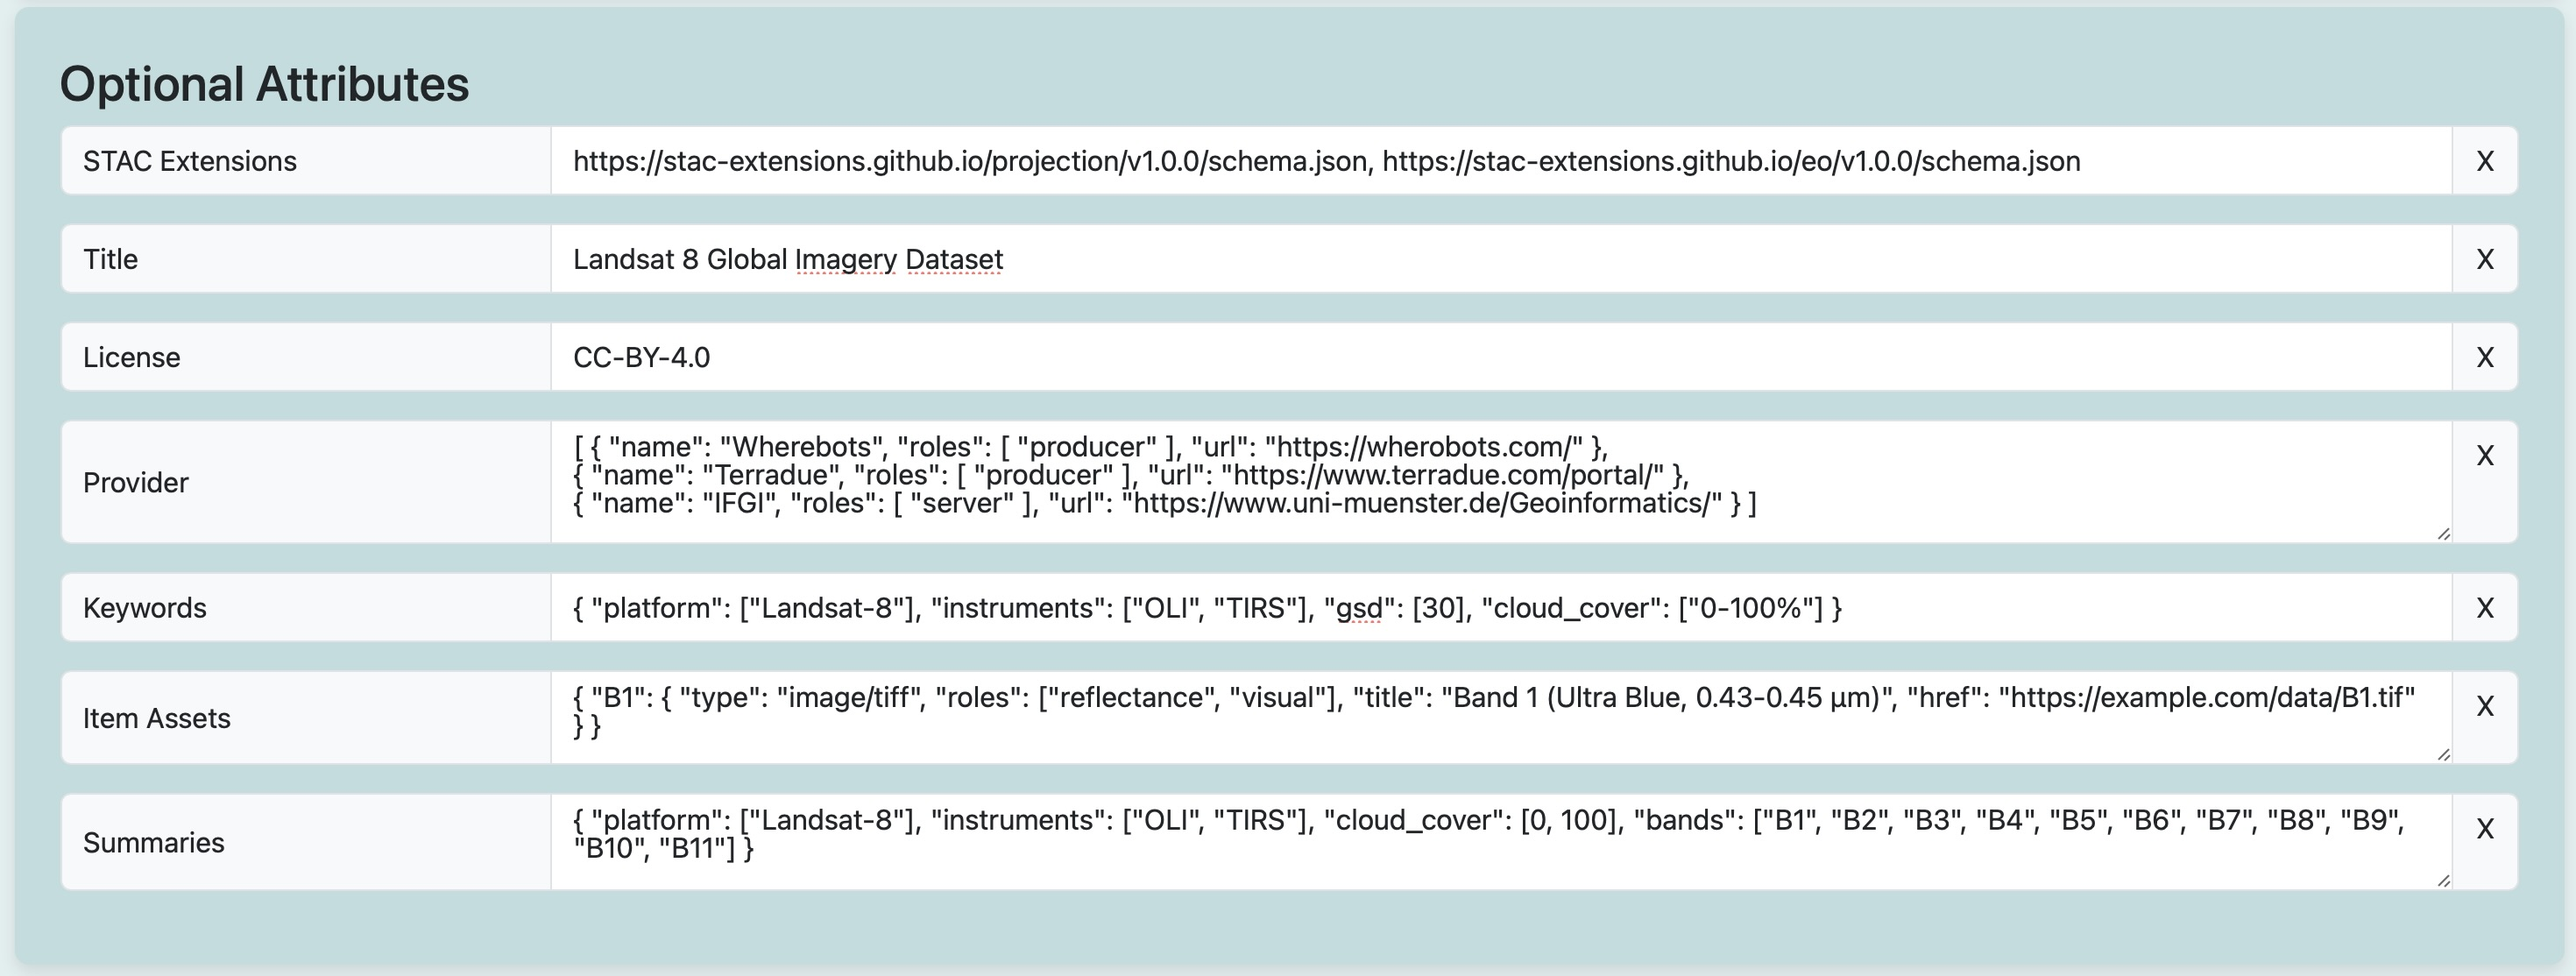
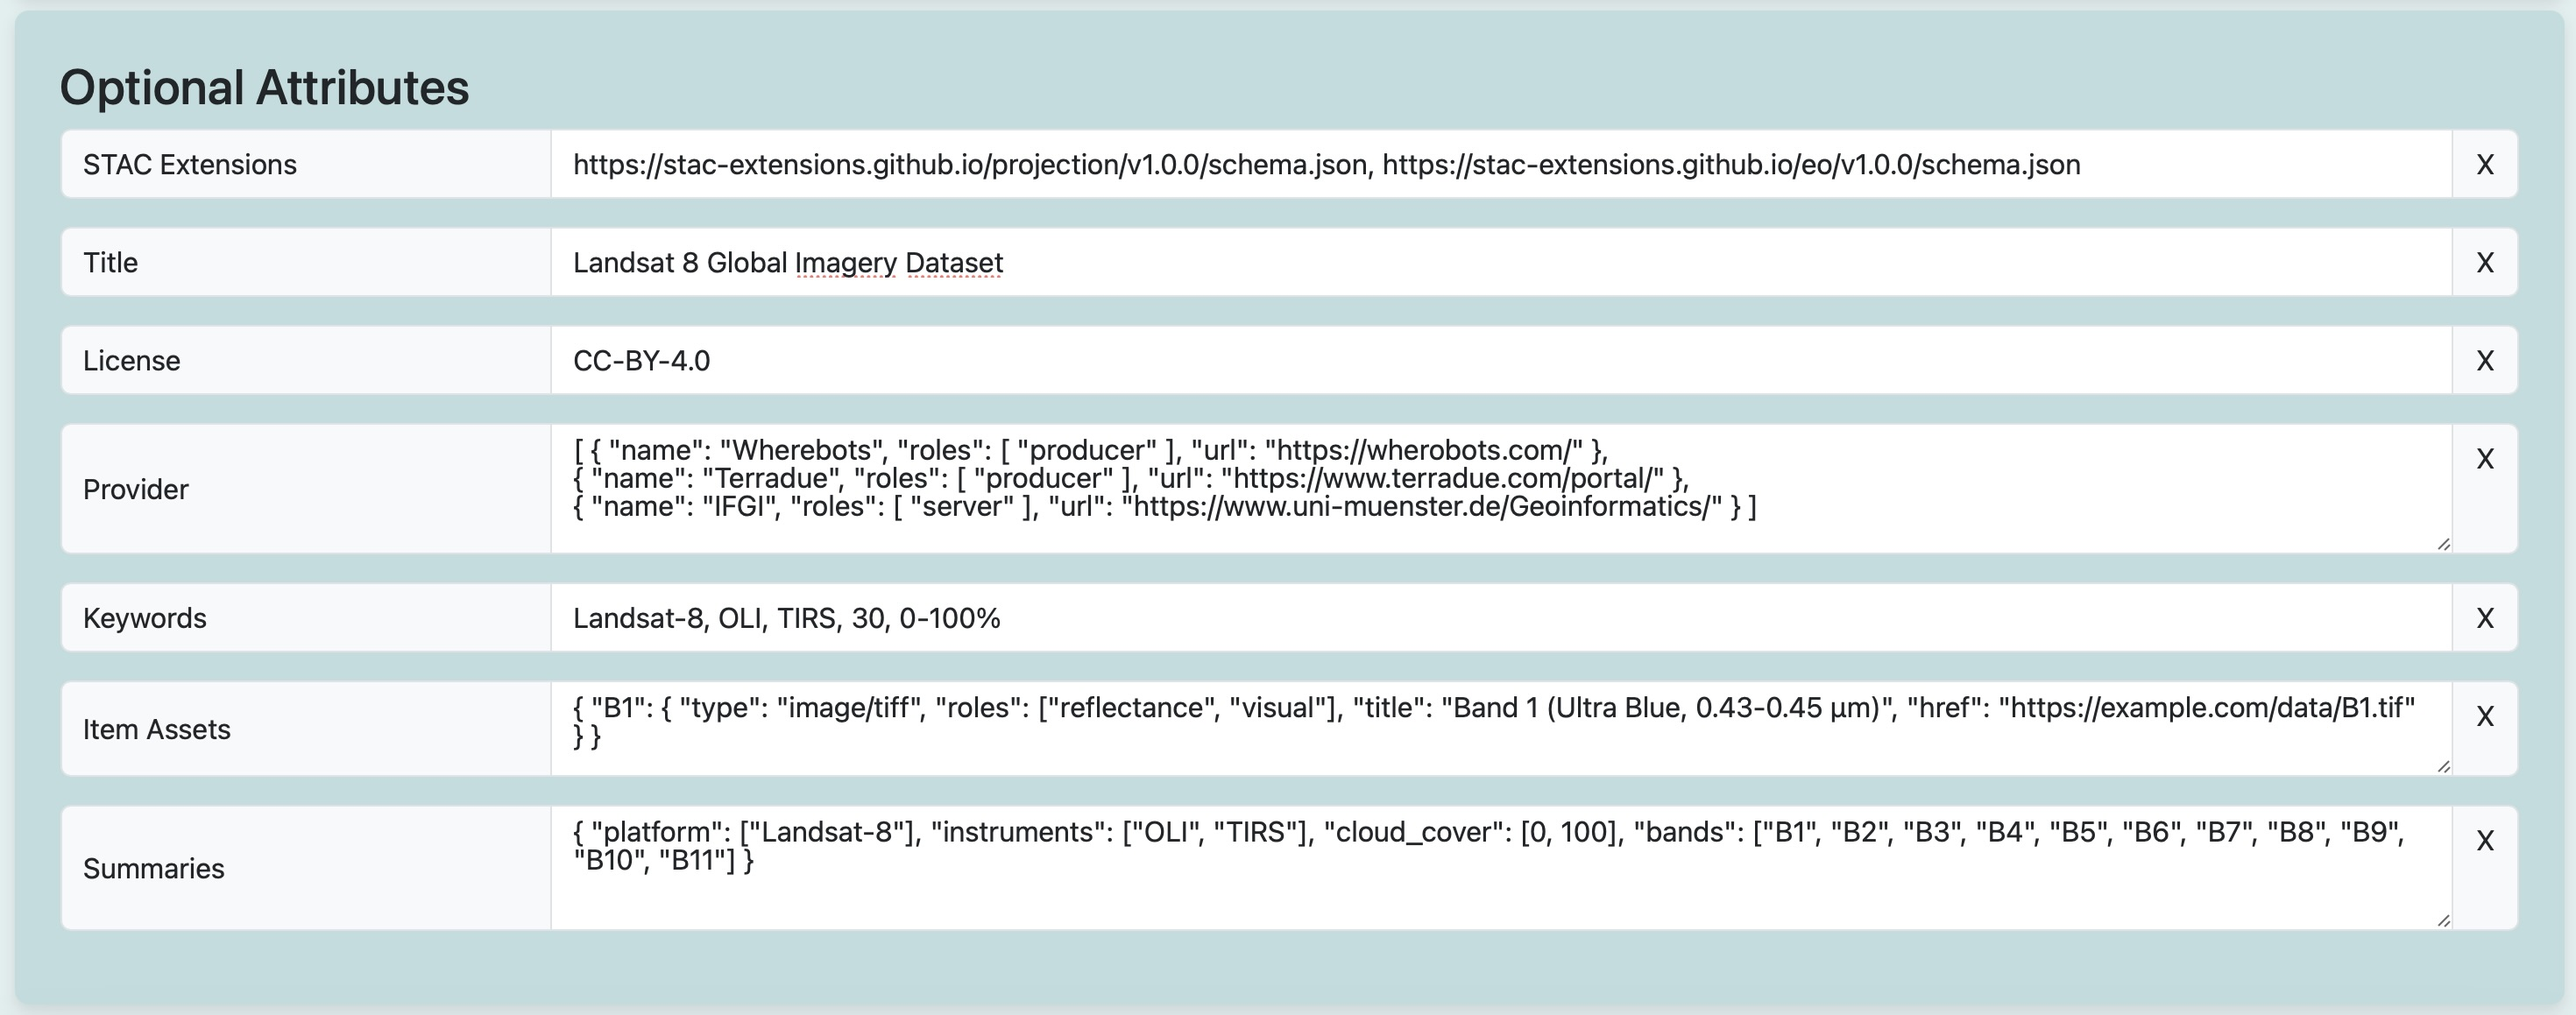
tutorial for adding items

Changed region(s): [[0.0, 0.1526, 0.9905, 0.9156]]

diff --git a/frontend/react/src/help/components/Scrollspy.jsx b/frontend/react/src/help/components/Scrollspy.jsx
@@ -185,7 +185,7 @@ const ScrollSpyComponent = () => {
             <br></br>
             <li>
               <strong>Keywords: </strong>Description: Concise labels to describe the dataset. Input: A JSONB format. <br></br>
-              Example: &#123; "platform": ["Landsat-8"], "instruments": ["OLI", "TIRS"], "gsd": [30], "cloud_cover": ["0-100%"] &#125;
+              Example: Landsat-8, OLI, TIRS, 30, 0-100%
             </li>
 
             <br></br>
@@ -221,6 +221,260 @@ const ScrollSpyComponent = () => {
           <ul>
             After signing in with your personal account, you can click on the tab "Add/Item" to add a new item.
           </ul>
+          <ul>
+            <h5>Key attributes</h5>
+            <li>
+              <strong>Type: </strong>Description: Defines the type of the item. Input: Default 'Feature' is given.
+            </li>
+            <br></br>
+            <li>
+              <strong>ID: </strong>Description: A unique identifier for the item. Input: An alphanumeric string without spaces. <br></br>
+              Example: item_solar_satlas_sentinel2
+            </li>
+            <br></br>
+            <li>
+              <strong>Geometry: </strong>Description: Defines the spatial coverage of the item. Input: A GeoJSON object representing the item's geometry. <br></br>
+              Example: &#123;
+              "type": "Polygon", <br></br>
+              "coordinates": [[[ -7.88, 37.13 ], [ -7.88, 58.21 ], [ 27.91, 58.21 ], [ 27.91, 37.13 ], [ -7.88, 37.13 ]]]
+              &#125;
+            </li>
+            <br></br>
+            <li>
+              <strong>Assets: </strong>Description: Lists the data files related to the item.
+              Input: A JSONB object containing asset details. <br></br>
+              Example: &#123;
+              "model": &#123;
+              "href": "s3://wherobots-modelhub-prod/professional/semantic-segmentation/solar-satlas-sentinel2/inductor/gpu/aot_inductor_gpu_tensor_cores.zip", <br></br>
+              "type": "application/zip; application=pytorch", <br></br>
+              "title": "AOTInductor model exported from private, edited, hard fork of Satlas GitHub repo.", <br></br>
+              "mlm_artifact_type": "torch.jit.script" <br></br>
+              &#125;
+              &#125;
+            </li>
+            <br></br>
+            <li>
+              <strong>Collection: </strong>Description: Specifies the collection to which this item belongs. Input: A valid collection ID, taken from dropdown menu. If no collections exist, please firstly create one.
+              <br></br>
+              <a href="#item-2-1">Learn here!</a>
+            </li>
+            <br></br>
+            <li>
+              <strong>STAC Version: </strong>Description: Specifies the STAC version used. Input: A valid STAC version number. <br></br>
+              Example: 1.0.0
+            </li>
+            <br></br>
+            <h5>Properties</h5>
+            <li>
+              <strong>MLM Name: </strong>Description: Name of the Machine Learning Model. Input: An alphanumeric string. <br></br>
+              Example: Satlas Solar Farm Segmentation
+            </li>
+            <br></br>
+            <li>
+              <strong>MLM Task: </strong>Description: The specific task that the MLM is designed for, such as classification, segmentation,... Input: Comma-separated list of tasks. <br></br>
+              Example: semantic-segmentation, segmentation
+            </li>
+            <br></br>
+            <li>
+              <strong>MLM Architecture: </strong>Description: The structure of the MLM. Input: An alphanumeric string. <br></br>
+              Example: PyTorch
+            </li>
+            <br></br>
+            <h5>Optional Properties</h5>
+            <li>
+              <strong>STAC Extensions: </strong>Description: Additional metadata extensions in the Spatial Temporal Asset Catalog (STAC) format. Input: A comma-separated list of URLs pointing to extension schemas. <br></br>Example: https://stac-extensions.github.io/projection/v1.0.0/schema.json, https://stac-extensions.github.io/eo/v1.0.0/schema.json
+            </li>
+            <br></br>
+            <li>
+              <strong>BBox: </strong>Description: The geographic boundary of an item. Input:  A GeoJSON object representing the item's geometry.<br></br>
+              Example: -7.882190080512502, 37.13739173208318, 27.911651652899923, 58.21798141355221
+            </li>
+            <br></br>
+            <li>
+              <strong>Description</strong>Description: Detailed textual explanation of the dataset or model. Input: An alphanumeric string. <br></br>
+              Example: Sourced from torchgeo python library, identifier is ResNet18_Weights.SENTINEL2_ALL_MOCO. The batch size suggestion is 3300, which almost maxes out an NVIDIA 3090's 24 GB CUDA memory.
+            </li>
+            <br></br>
+            <li>
+              <strong>Datetime: </strong>Description: A timestamp indicating a specific date and time associated with the data or model. Input: A timestamp. <br></br>
+              Example:
+            </li>
+            <br></br>
+            <li>
+              <strong>Start Datetime: </strong>Description: The beginning timestamp for the dataset or model's validity period. Input: A timestamp. <br></br>
+              Example: 2021-01-01T00:00:00Z
+            </li>
+            <br></br>
+            <li>
+              <strong>End Datetime: </strong>Description: The end timestamp for the dataset or model's validity period. Input: A timestamp. <br></br>
+              Example: 2023-12-01T00:00:00Z
+            </li>
+            <br></br>
+            <li>
+              <strong>MLM Framework: </strong>Description: The software framework used to develop and train the model. Input: An alphanumeric string. <br></br>
+              Example: pytorch
+            </li>
+            <br></br>
+            <li>
+              <strong>MLM Framework Version: </strong>Description: The specific version of the framework used for model training and inference. Input: An alphanumeric string. <br></br>
+              Example: 2.3.0+cu121
+            </li>
+            <br></br>
+            <li>
+              <strong>MLM Memory Size: </strong>Description: The amount of memory (RAM) required to load and run the model. Input: An integer. <br></br>
+              Example: 94452432
+            </li>
+            <br></br>
+            <li>
+              <strong>MLM Total Parameters: </strong>Description: The total number of trainable parameters in the model, representing its complexity. Input: An integer <br></br>
+              Example: 11700000
+            </li>
+            <br></br>
+            <li>
+              <strong>MLM Pretrained: </strong>Description:  Indicates whether the model is pretrained on another dataset before fine-tuning. Input: Tick the box or not.
+            </li>
+            <br></br>
+            <li>
+              <strong>MLM Pretrained Source: </strong>Description: The dataset or repository from which the pretrained model was obtained. Input: An alphanumeric string. <br></br>
+              Example:EuroSat Sentinel-2
+            </li>
+            <br></br>
+            <li>
+              <strong>MLM Batch Size Suggestion: </strong>Description: The recommended number of samples to process in one batch during training or inference. Input: An integer. <br></br>
+              Example: 3300
+            </li>
+            <br></br>
+            <li>
+              <strong>MLM Accelerator: </strong>Description: The type of hardware accelerator used. Input: An alphanumeric string. <br></br>
+              Example: cuda
+            </li>
+            <br></br>
+            <li>
+              <strong>MLM Accelerator COnstrained: </strong>Description:  Indicates whether the model has specific constraints related to the accelerator type or availability. Input: Tick the box or not.
+            </li>
+            <br></br>
+            <li>.
+              <strong>MLM Accelerator Summary</strong>Description:  A brief description of the hardware acceleration setup. Input: An alphanumeric string. <br></br>
+              Example: Unknown
+            </li>
+            <br></br>
+            <li>
+              <strong>MLM Accelerator Count: </strong>Description: The number of accelerators (e.g., GPUs) used for training or inference. Input: An integer. <br></br>
+              Example: 1
+            </li>
+            <br></br>
+            <li>
+              <strong>MLM Input: </strong>Description: The format and structure of input data required by the model. Input: A JSONB file. <br></br>
+              Example: [
+              &#123;
+              "name": "13 Band Sentinel-2 Batch",
+              "bands": [
+              "B01",
+              "B02",
+              "B03",
+              "B04",
+              "B05",
+              "B06",
+              "B07",
+              "B08",
+              "B8A",
+              "B09",
+              "B10",
+              "B11",
+              "B12"
+              ],
+              "input": &#123;
+              "shape": [
+              -1,
+              13,
+              64,
+              64
+              ],
+              "dim_order": [
+              "batch",
+              "channel",
+              "height",
+              "width"
+              ],
+              "data_type": "float32"
+              &#125;,
+              "norm_by_channel": true,
+              "norm_type": "z-score",
+              "statistics": [
+              &#123;
+              "mean": 1354.40546513,
+              "stddev": 245.71762908
+              &#125;,
+              &#123;
+              "mean": 1118.24399958,
+              "stddev": 333.00778264
+              &#125;
+              ],
+              "pre_processing_function": &#123;
+              "format": "python",
+              "expression": "torchgeo.datamodules.eurosat.EuroSATDataModule.collate_fn"
+              &#125;
+              &#125;
+              ]
+            </li>
+            <br></br>
+            <li>
+              <strong>MLM Output: </strong>Description: he format and structure of the output produced by the model. Input: A JSONB file. <br></br>
+              Example:[
+              &#123;
+              "name": "scene-classification",
+              "tasks": [
+              "scene-classification"
+              ],
+              "result": &#123;
+              "shape": [
+              -1,
+              10
+              ],
+              "dim_order": [
+              "batch",
+              "class"
+              ],
+              "data_type": "float32"
+              &#125;,
+              "classification:classes": [
+              &#123;
+              "value": 0,
+              "name": "Annual Crop",
+              "description": "Annual Crop"
+              &#125;,
+              &#123;
+              "value": 1,
+              "name": "Forest",
+              "description": "Forest"
+              &#125;
+              ],
+              "post_processing_function": null
+              &#125;
+              ]
+
+            </li>
+            <br></br>
+            <li>
+              <strong>MLM Hyperparameters: </strong>Description: The set of adjustable parameters that control the learning process of the model. Input: A JSONB file. <br></br>
+              Example: &#123;
+              "learning_rate": 0.001,
+              "batch_size": 32,
+              "epochs": 50,
+              "optimizer": "Adam",
+              "dropout": 0.3,
+              "loss_function": "cross_entropy"
+              &#125;
+            </li>
+            <br></br>
+            <h5>Here is a screenshot to help you understand the process:</h5>
+            <div>
+              <img src="../../ItemsAddData.jpeg" alt="Screenshot of item addition" width="820" />
+            </div>
+            <br></br>
+
+          </ul>
+
           <hr />
           <br></br>
 
